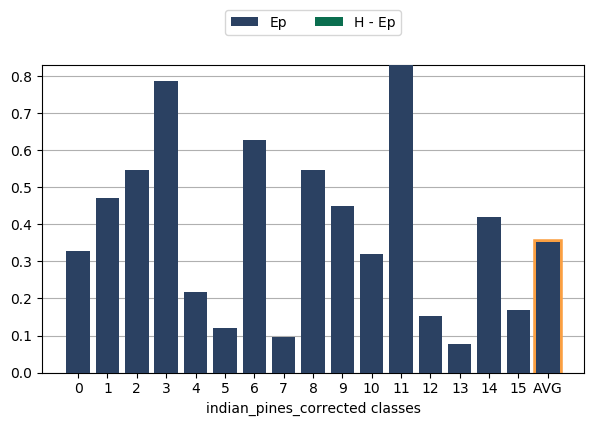
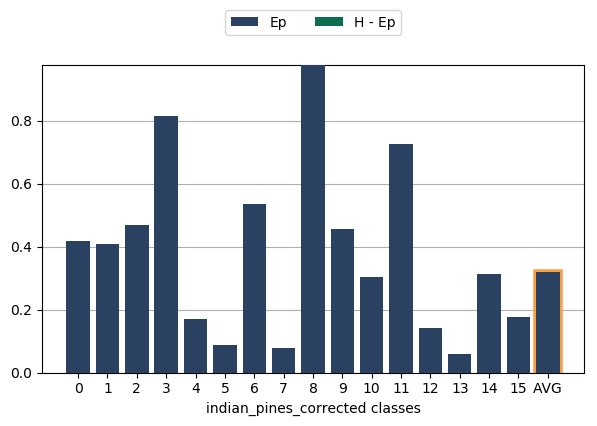
Análisis de modelo completo

diff --git a/FPGA_accelerator_for_GBDT/high_performance_processor_python_code_and_data/perform_analysis.py b/FPGA_accelerator_for_GBDT/high_performance_processor_python_code_and_data/perform_analysis.py
@@ -129,7 +129,7 @@ def reliability_diagram(predictions, y_test, num_groups=10):
     
     return result
 
-def accuracy_vs_uncertainty(predictions, y_test, H_limit=2.5, num_groups=25):
+def accuracy_vs_uncertainty(predictions, y_test, H_limit=2.1, num_groups=21):
     """Generates the `accuracy vs uncertainty` data
     
     Parameters
@@ -321,7 +321,7 @@ def plot_reliability_diagram(output_dir, data, w=7, h=4, colours=COLOURS, num_gr
     print("\nSaved {file_name} in {output_dir}".format(file_name=file_name, output_dir=output_dir))
 
 def plot_accuracy_vs_uncertainty(output_dir, acc_data, px_data, w=7, h=4, colours=COLOURS,
-                                 H_limit=2.5, num_groups=25):
+                                 H_limit=2.1, num_groups=21):
     """Generates and saves the `accuracy vs uncertainty` plot
     
     It saves the plot in `output_dir` in png format with the name
@@ -510,7 +510,7 @@ def get_forest_individual_probabilities(trained_forest, X_test):
 # MAIN FUNCTION
 # =============================================================================
 
-def main(full_model=False):
+def main(full_model=True):
 
     if (full_model):
         graphics_dir = "{}/full".format(ACCURACY_GRAPHICS_DIR)
